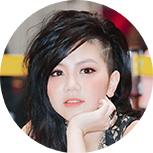
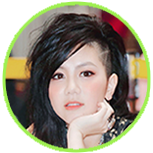
V2.0 Final Load

diff --git a/ads.js b/ads.js
@@ -1,258 +1,3 @@
-var videoContent = document.getElementById('contentElement');
-
-var adDisplayContainer =
-    new google.ima.AdDisplayContainer(
-        document.getElementById('adContainer'),
-        videoContent);
-// Must be done as the result of a user action on mobile
-adDisplayContainer.initialize();
-
-// Re-use this AdsLoader instance for the entire lifecycle of your page.
-var adsLoader = new google.ima.AdsLoader(adDisplayContainer);
-
-// Add event listeners
-adsLoader.addEventListener(
-    google.ima.AdsManagerLoadedEvent.Type.ADS_MANAGER_LOADED,
-    onAdsManagerLoaded,
-    false);
-adsLoader.addEventListener(
-    google.ima.AdErrorEvent.Type.AD_ERROR,
-    onAdError,
-    false);
-
-function onAdError(adErrorEvent) {
-    console.log("adError");
-
-
-    document.getElementById("adContainer").style.display = "none";
-
-
-
-
-    var GameConfig = __require("GameConfig");
-
-    if (GameConfig.playNum == 0) {
-
-        adCompleteFlag = true;
-        if (adCompleteFlag && resCompleteFlag) {
-
-            adCompleteFlag = false;
-
-            var launchScene = GameConfig.launchScene;
-            var Bros = GameConfig.Bros;
-            var caS = GameConfig.caS;
-            cc.director.loadScene(launchScene, null,
-                function() {
-                    adCompleteFlag = false;
-                    if (Bros) {
-                        // show canvas
-                        caS = '';
-                        var div = document.getElementById('GameDiv');
-                        if (div) {
-                            div.style.backgroundImage = '';
-                        }
-                    }
-                    cc.loader.onProgress = null;
-                    console.log('Success to load scene: ' + launchScene);
-                }
-
-            );
-
-
-
-        }
-
-    }
-
-
-
-    adEndComplete = true;
-    if (adEndComplete && resEndComplete) {
-        adEndComplete = false;
-        console.log("indexOverErr");
-        var MainManger = __require("MainManage");
-        MainManger.showGameEndLayer();
-    }
-
-    // Handle the error logging and destroy the AdsManager
-    console.log(adErrorEvent.getError());
-    adsManager.destroy();
-}
-
-// An event listener to tell the SDK that our content video
-// is completed so the SDK can play any post-roll ads.
-var contentEndedListener = function() {
-    adsLoader.contentComplete();
-};
-videoContent.onended = contentEndedListener;
-
-// Request video ads.
-var preloader = new google.ima.AdsRequest();
-preloader.adTagUrl = 'https://googleads.g.doubleclick.net/pagead/ads?ad_type=video_image&client=ca-games-pub-8708616103041212&description_url=http%3A%2F%2Fwww.vsane.com&videoad_start_delay=-1&hl=zh_CN&max_ad_duration=15000';
-// Specify the linear and nonlinear slot sizes. This helps the SDK to
-// select the correct creative if multiple are returned.
-preloader.linearAdSlotWidth = 640;
-preloader.linearAdSlotHeight = 400;
-preloader.nonLinearAdSlotWidth = 640;
-preloader.nonLinearAdSlotHeight = 400;
-
-
-// showMyAds();
-
-function showMyAds() {
-
-    // alert("showMy");
-
-    if (typeof(killads) == 'undefined') {
-        // alert('广告被过滤');
-        console.log("AdNo");
-        adEndComplete = false;
-        var MainManger = __require("MainManage");
-        MainManger.showGameEndLayer();
-    } else {
-
-
-        var winHeight = document.documentElement.clientHeight;
-        // document.getElementById("adContainer").style.height = winHeight-60+"px";
-        if (document.body.clientHeight > 700) {
-            document.getElementById("adContainer").style.height = winHeight - 85 + "px";
-        } else {
-            document.getElementById("adContainer").style.height = winHeight - 65 + "px";
-        }
-
-        document.getElementById("adContainer").style.display = "block";
-        adsLoader.requestAds(preloader);
-
-    }
-
-
-
-
-
-}
-
-
-function onAdsManagerLoaded(adsManagerLoadedEvent) {
-    console.log("ADLoad");
-
-    adCompleteFlag = true;
-
-    // document.getElementById("adContainer").style.display = "block";
-    // Get the ads manager.
-    adsManager = adsManagerLoadedEvent.getAdsManager(
-        videoContent); // See API reference for contentPlayback
-
-    // Add listeners to the required events.
-    adsManager.addEventListener(
-        google.ima.AdErrorEvent.Type.AD_ERROR,
-        onAdError);
-    adsManager.addEventListener(
-        google.ima.AdEvent.Type.CONTENT_PAUSE_REQUESTED,
-        onContentPauseRequested);
-    adsManager.addEventListener(
-        google.ima.AdEvent.Type.CONTENT_RESUME_REQUESTED,
-        onContentResumeRequested);
-
-    var o = document.getElementById("adContainer");
-    var h = o.offsetHeight; //高度
-    var w = o.offsetWidth; //宽度
-    try {
-        // Initialize the ads manager. Ad rules playlist will start at this time.
-        adsManager.init(w, h, google.ima.ViewMode.FULLSCREEN);
-        // Call start to show ads. Single video and overlay ads will
-        // start at this time; this call will be ignored for ad rules, as ad rules
-        // ads start when the adsManager is initialized.
-        adsManager.start();
-    } catch (adError) {
-
-        // An error may be thrown if there was a problem with the VAST response.
-        // Play content here, because we won't be getting an ad.
-        // videoContent.play();
-    }
-}
-
-function onContentPauseRequested() {
-
-
-    // This function is where you should setup UI for showing ads (e.g.
-    // display ad timer countdown, disable seeking, etc.)
-    videoContent.removeEventListener('ended', contentEndedListener);
-    videoContent.pause();
-
-}
-
-//广告结束的时候调用的函数
-function onContentResumeRequested() {
-    console.log("ADLoadComplete", resEndComplete);
-
-
-
-    var GameConfig = __require("GameConfig");
-    console.log("IndexMainManger", GameConfig.launchScene, GameConfig.Bros, GameConfig.caS);
-
-    if (GameConfig.playNum == 1) {
-        adCompleteFlag = true;
-        if (adCompleteFlag && resCompleteFlag) {
-
-            var launchScene = GameConfig.launchScene;
-            var Bros = GameConfig.Bros;
-            var caS = GameConfig.caS;
-            cc.director.loadScene(launchScene, null,
-                function() {
-
-
-                    adCompleteFlag = false;
-
-
-
-                    if (Bros) {
-                        // show canvas
-                        var canvas = document.getElementById('GameCanvas');
-                        canvas.style.visibility = '';
-                        var div = document.getElementById('GameDiv');
-                        if (div) {
-                            div.style.backgroundImage = '';
-                        }
-                    }
-                    cc.loader.onProgress = null;
-                    console.log('Success to load scene1: ' + launchScene);
-
-
-
-
-
-                }
-            );
-
-
-        }
-
-
-    }
-
-
-
-
-
-
-    adEndComplete = true;
-    if (adEndComplete && resEndComplete) {
-        adEndComplete = false;
-        console.log("indexOverErr");
-        var MainManger = __require("MainManage");
-        MainManger.showGameEndLayer();
-    }
-
-    // This function is where you should ensure that your UI is ready
-    // to play content.
-    document.getElementById("adContainer").style.display = "none";
-
-
-    // videoContent.addEventListener('ended', contentEndedListener);
-    // videoContent.play();
-
-}
-
 function noAdGoToScene() {
 
 

diff --git a/index.html b/index.html
@@ -238,34 +238,6 @@
     <script src="main.js" charset="utf-8"></script>
 
 
-    <!-- <script async src="//pagead2.googlesyndication.com/pagead/js/adsbygoogle.js"></script> -->
-    <!-- 暴力扣篮 -->
-    <!-- <ins class="adsbygoogle"
-      style="position:absolute;border-top:5px #f0f0f1 solid;background:#f0f0f1;bottom:0px;z-index:1000;display:inline-block;min-width:320px;max-width:970px;width:100%;height:60px"
-     data-ad-client="ca-pub-3932234672445376"
-     data-ad-slot="7048809290"
-     ></ins>
-<script>
-	 var ads = document.getElementsByClassName('adsbygoogle')[0]; 
-
-	 if (document.body.clientHeight > 700){  
-	 	ads.style.height = 80+'px'; 
-	 }else{     
-	 	ads.style.height = 60+'px';    
-	 }
-    
-</script>
-
-<script>
-	function ShowBannerAD(){
-		(adsbygoogle = window.adsbygoogle || []).push({});
-	}
-	
-</script> -->
-
-    <!-- <script async data-ad-client="ca-pub-3932234672445376" data-ad-channel="7171445254" src="https://pagead2.googlesyndication.com/pagead/js/adsbygoogle.js"> -->
-    </script>
-
     <script>
         window.adsbygoogle = window.adsbygoogle || [];
         const adBreak = function(o) {

diff --git a/ReadMe.md b/ReadMe.md
@@ -1,7 +1,5 @@
-V1.0 Issues
-1.游戏结束ads
-
-V2.0 Updates:
-1.去除右上角广告
-2.更正6图片不圆
-3.大西瓜背景音替换
+V2.0 Updates(21.02.01,05:07):
+1.去除右上角、游戏结束后广告
+2.更正6 10 11图片不圆
+3.图片加边框
+4.大西瓜背景音替换
